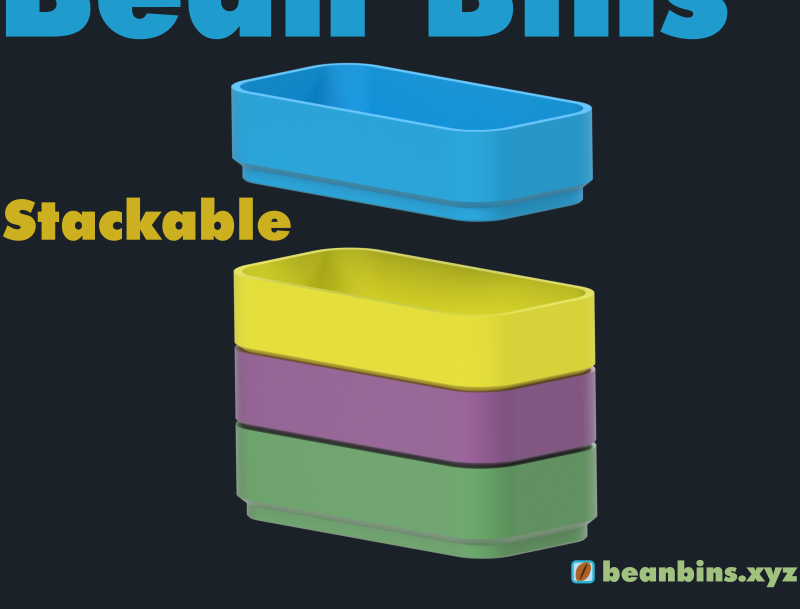
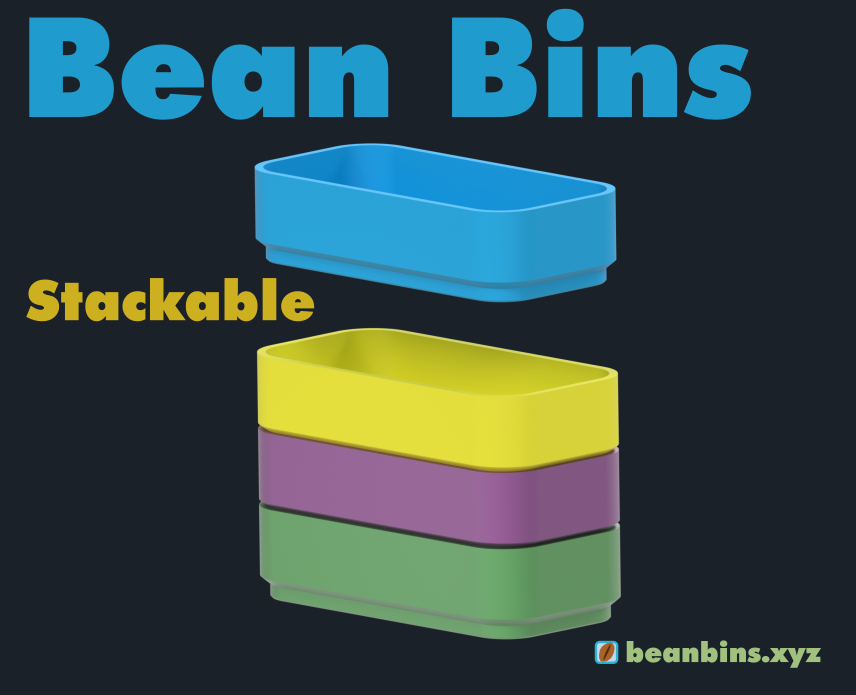
upd[assets images]

Changed region(s): [[0.0, 0.0, 1.0, 0.9672], [0.3125, 0.8424, 0.5312, 0.9048], [0.5312, 0.8736, 0.5938, 0.936]]

diff --git a/howto.html b/howto.html
@@ -24,7 +24,7 @@
       </div>
 
       <div class="howto-hero">
-        <img src="./assets/beanbins.png" alt="Parametric 3D printable bins generated with BeanBins" />
+        <img src="./assets/beanbins.webp" alt="Parametric 3D printable bins generated with BeanBins"  loading="lazy"/>
       </div>      
 
 
@@ -35,7 +35,7 @@
       <h2 class="howto-section">Model details</h2>
 
       <div class="howto-section-img">
-        <img src="./assets/beanbins-stack.png" alt="Stack of BeanBins bins" />
+        <img src="./assets/beanbins-stack.webp" alt="Stack of BeanBins bins" loading="lazy"/>
       </div>
       
       <h3>Core features</h3>
